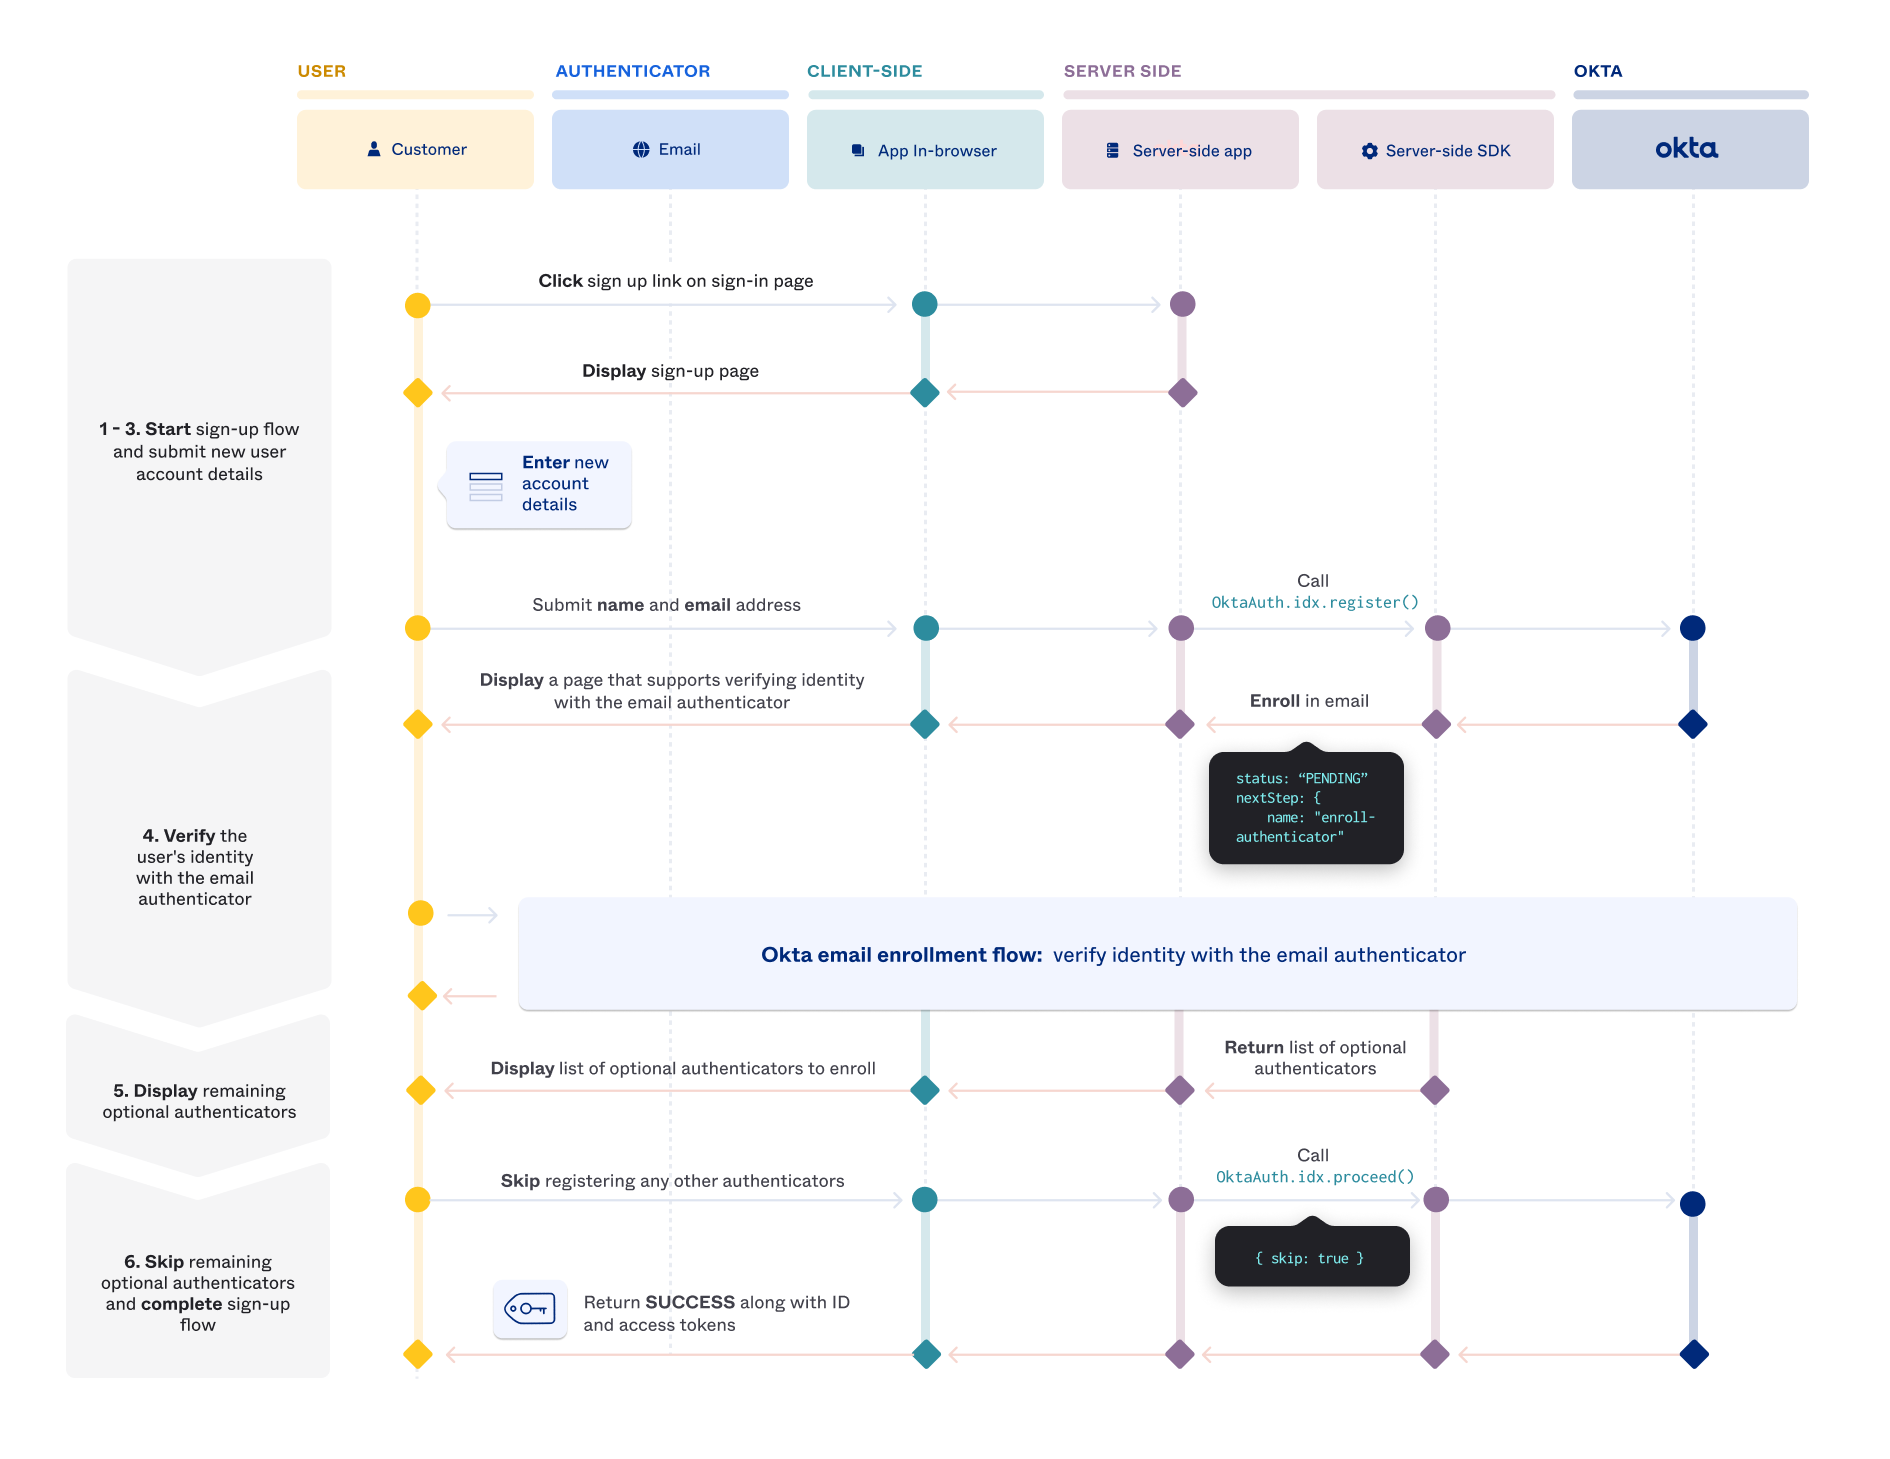
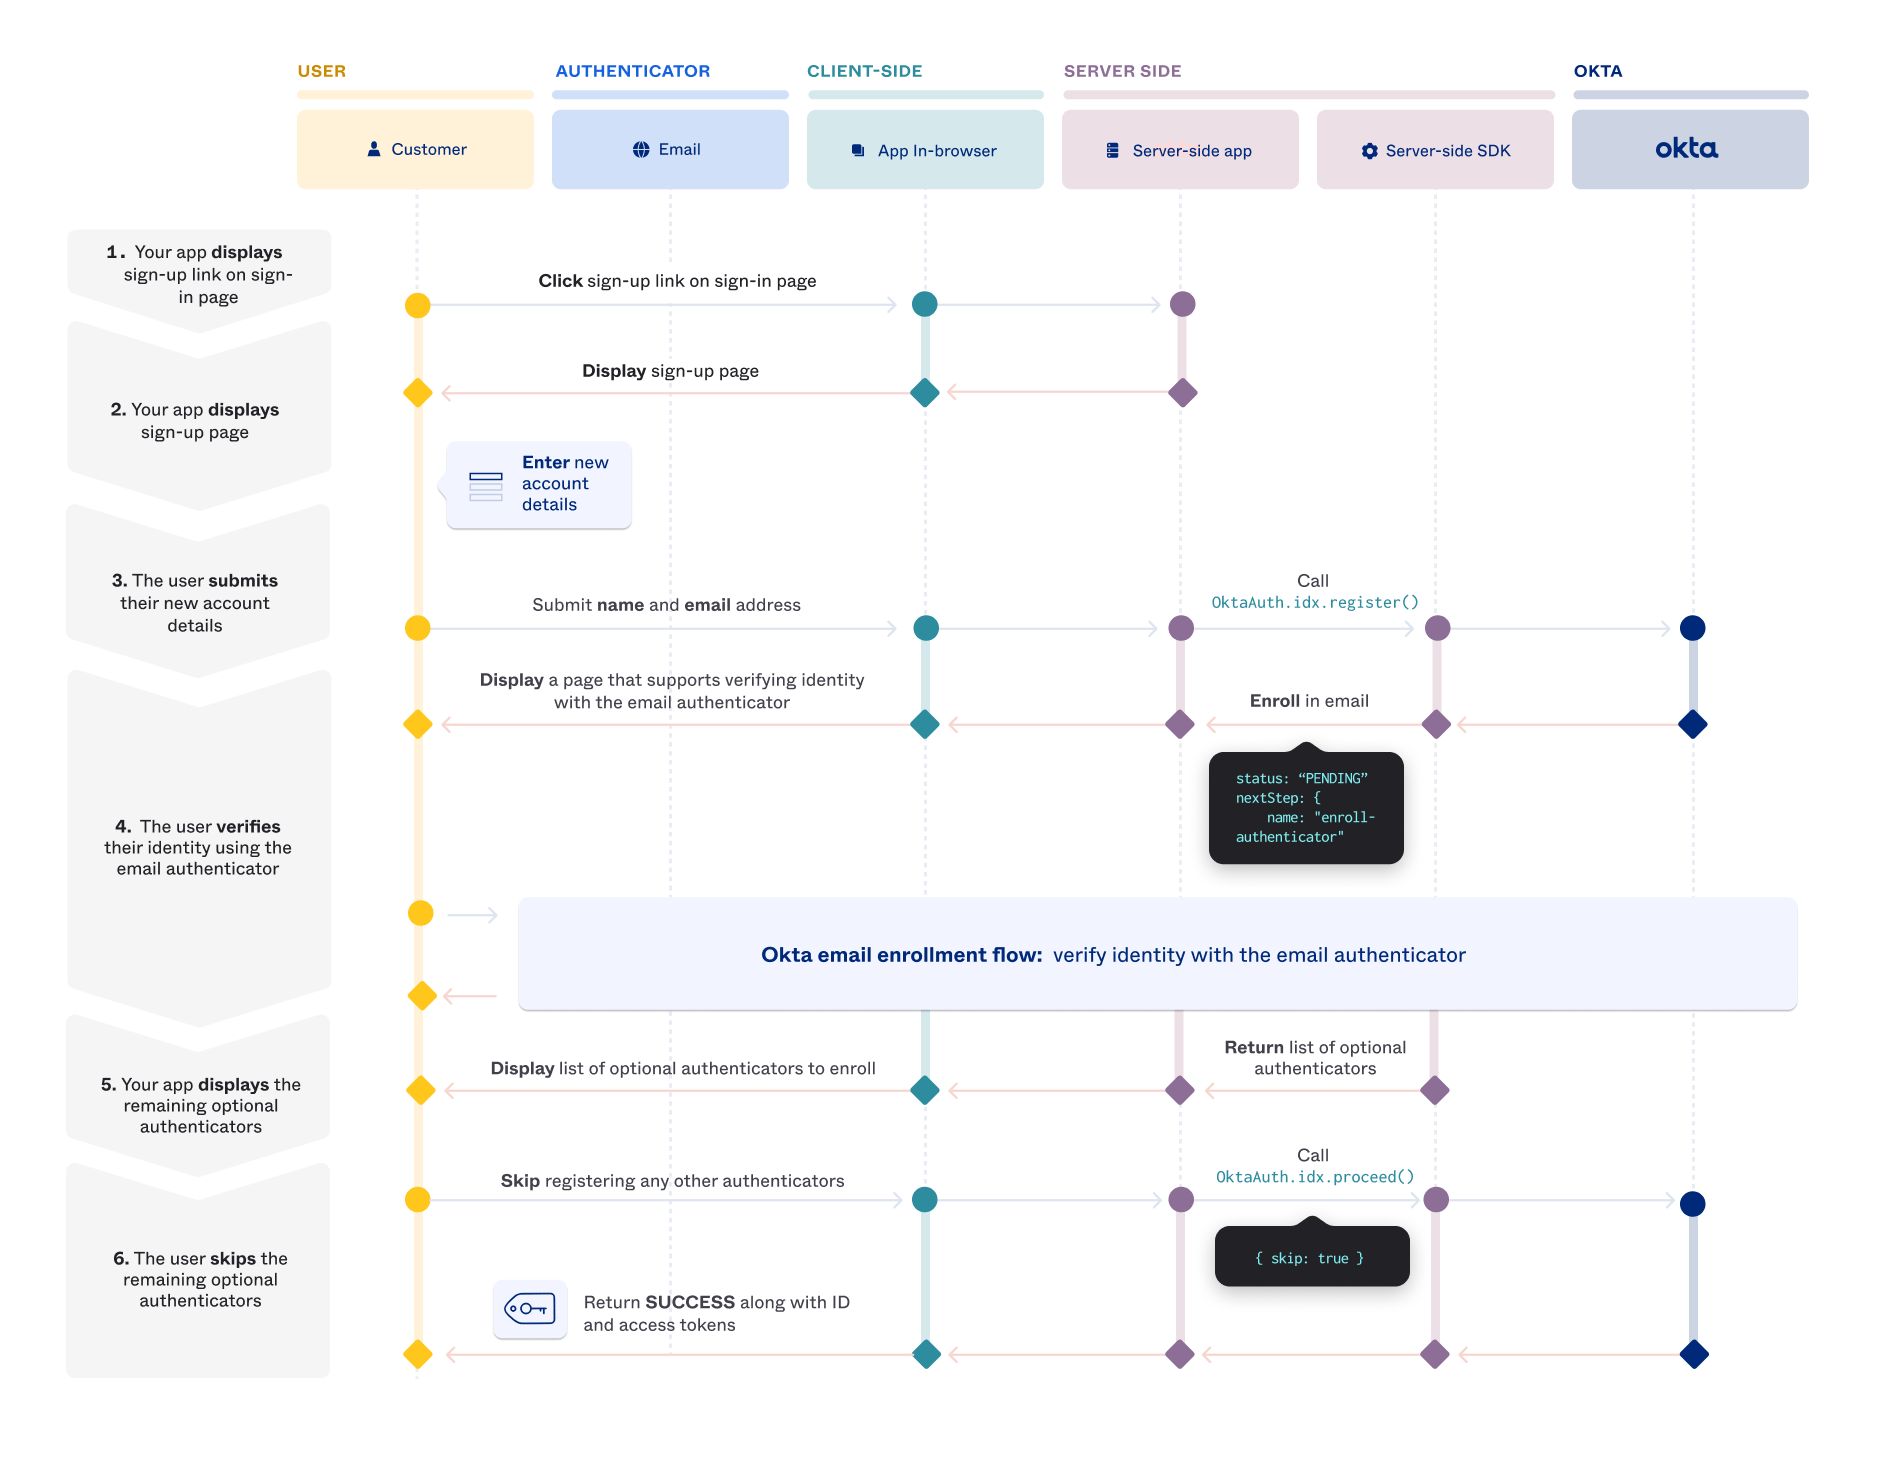
Updates for diagram style changes

diff --git a/packages/@okta/vuepress-site/docs/guides/pwd-optional-new-sign-up-email/main/nodeexpress/integrationsteps.md b/packages/@okta/vuepress-site/docs/guides/pwd-optional-new-sign-up-email/main/nodeexpress/integrationsteps.md
@@ -1,4 +1,4 @@
-### 1: Add sign-up link on sign-in page
+### 1: Your app displays sign-up link on sign-in page
 
 Add a **Sign up** link on your app's sign-in page. When the user clicks this link, redirect them to a sign-up page where they can sign up for a new account.
 
@@ -8,7 +8,7 @@ Add a **Sign up** link on your app's sign-in page. When the user clicks this lin
 
 </div>
 
-### 2: Create and display sign-up page
+### 2: Your app displays sign-up page
 
 Create a sign-up page that captures the user's first name, last name, and email.
 
@@ -18,7 +18,7 @@ Create a sign-up page that captures the user's first name, last name, and email.
 
 </div>
 
-### 3: Submit new user account details
+### 3: The user submits their new account details
 
 When the user submits their account details, create an object with `firstName`, `lastName`, and `email` properties and assign them the values entered by the user.
 
@@ -40,7 +40,7 @@ Send this new object to `OktaAuth.idx.register()`.
   handleTransaction({ req, res, next, authClient, transaction });
 ```
 
-### 4. Verify the user's identity with the email authenticator
+### 4. The user verifies their identity using the email authenticator
 
 `OktaAuth.idx.register()` returns an `IdxTransaction` object indicating that the user needs to verify their identity with the email authenticator challenge.
 
@@ -61,7 +61,7 @@ Send this new object to `OktaAuth.idx.register()`.
 
 The email authenticator supports user verification by One-Time Password (OTP) and by magic links. To learn more, see the [Okta email integration guide](/docs/guides/authenticators-okta-email/nodeexpress/main/#integrate-email-challenge-with-magic-links).
 
-### 5. Display remaining optional authenticators
+### 5. Your app displays the remaining optional authenticators
 
 After the user verifies their identity using the email authenticator, `OktaAuth.idx.proceed()` returns an `IdxTransaction` object indicating that the user has the option to enroll in additional authenticators. The `IdxTransaction.nextStep.canSkip` property is `true` if the remaining authenticators are optional.
 
@@ -95,7 +95,7 @@ Create and display a page that lists the remaining optional authenticators and a
 
 >**Note:** In other use cases where there are additional required authenticators, `IdxTransaction.nextStep.canSkip` equals `false` and the **Skip** button should be omitted.
 
-### 6. Skip remaining optional authenticators and complete sign-up flow
+### 6. The user skips the remaining optional authenticators
 
 When the user clicks the **Skip** button, call `OktaAuth.idx.proceed()` and pass in an object with a `skip` property equal to `true`.
 
@@ -123,3 +123,5 @@ When the user clicks the **Skip** button, call `OktaAuth.idx.proceed()` and pass
   },
 }
 ```
+
+Store these tokens for future requests and redirect the user to the default page after a successful sign-up attempt.
